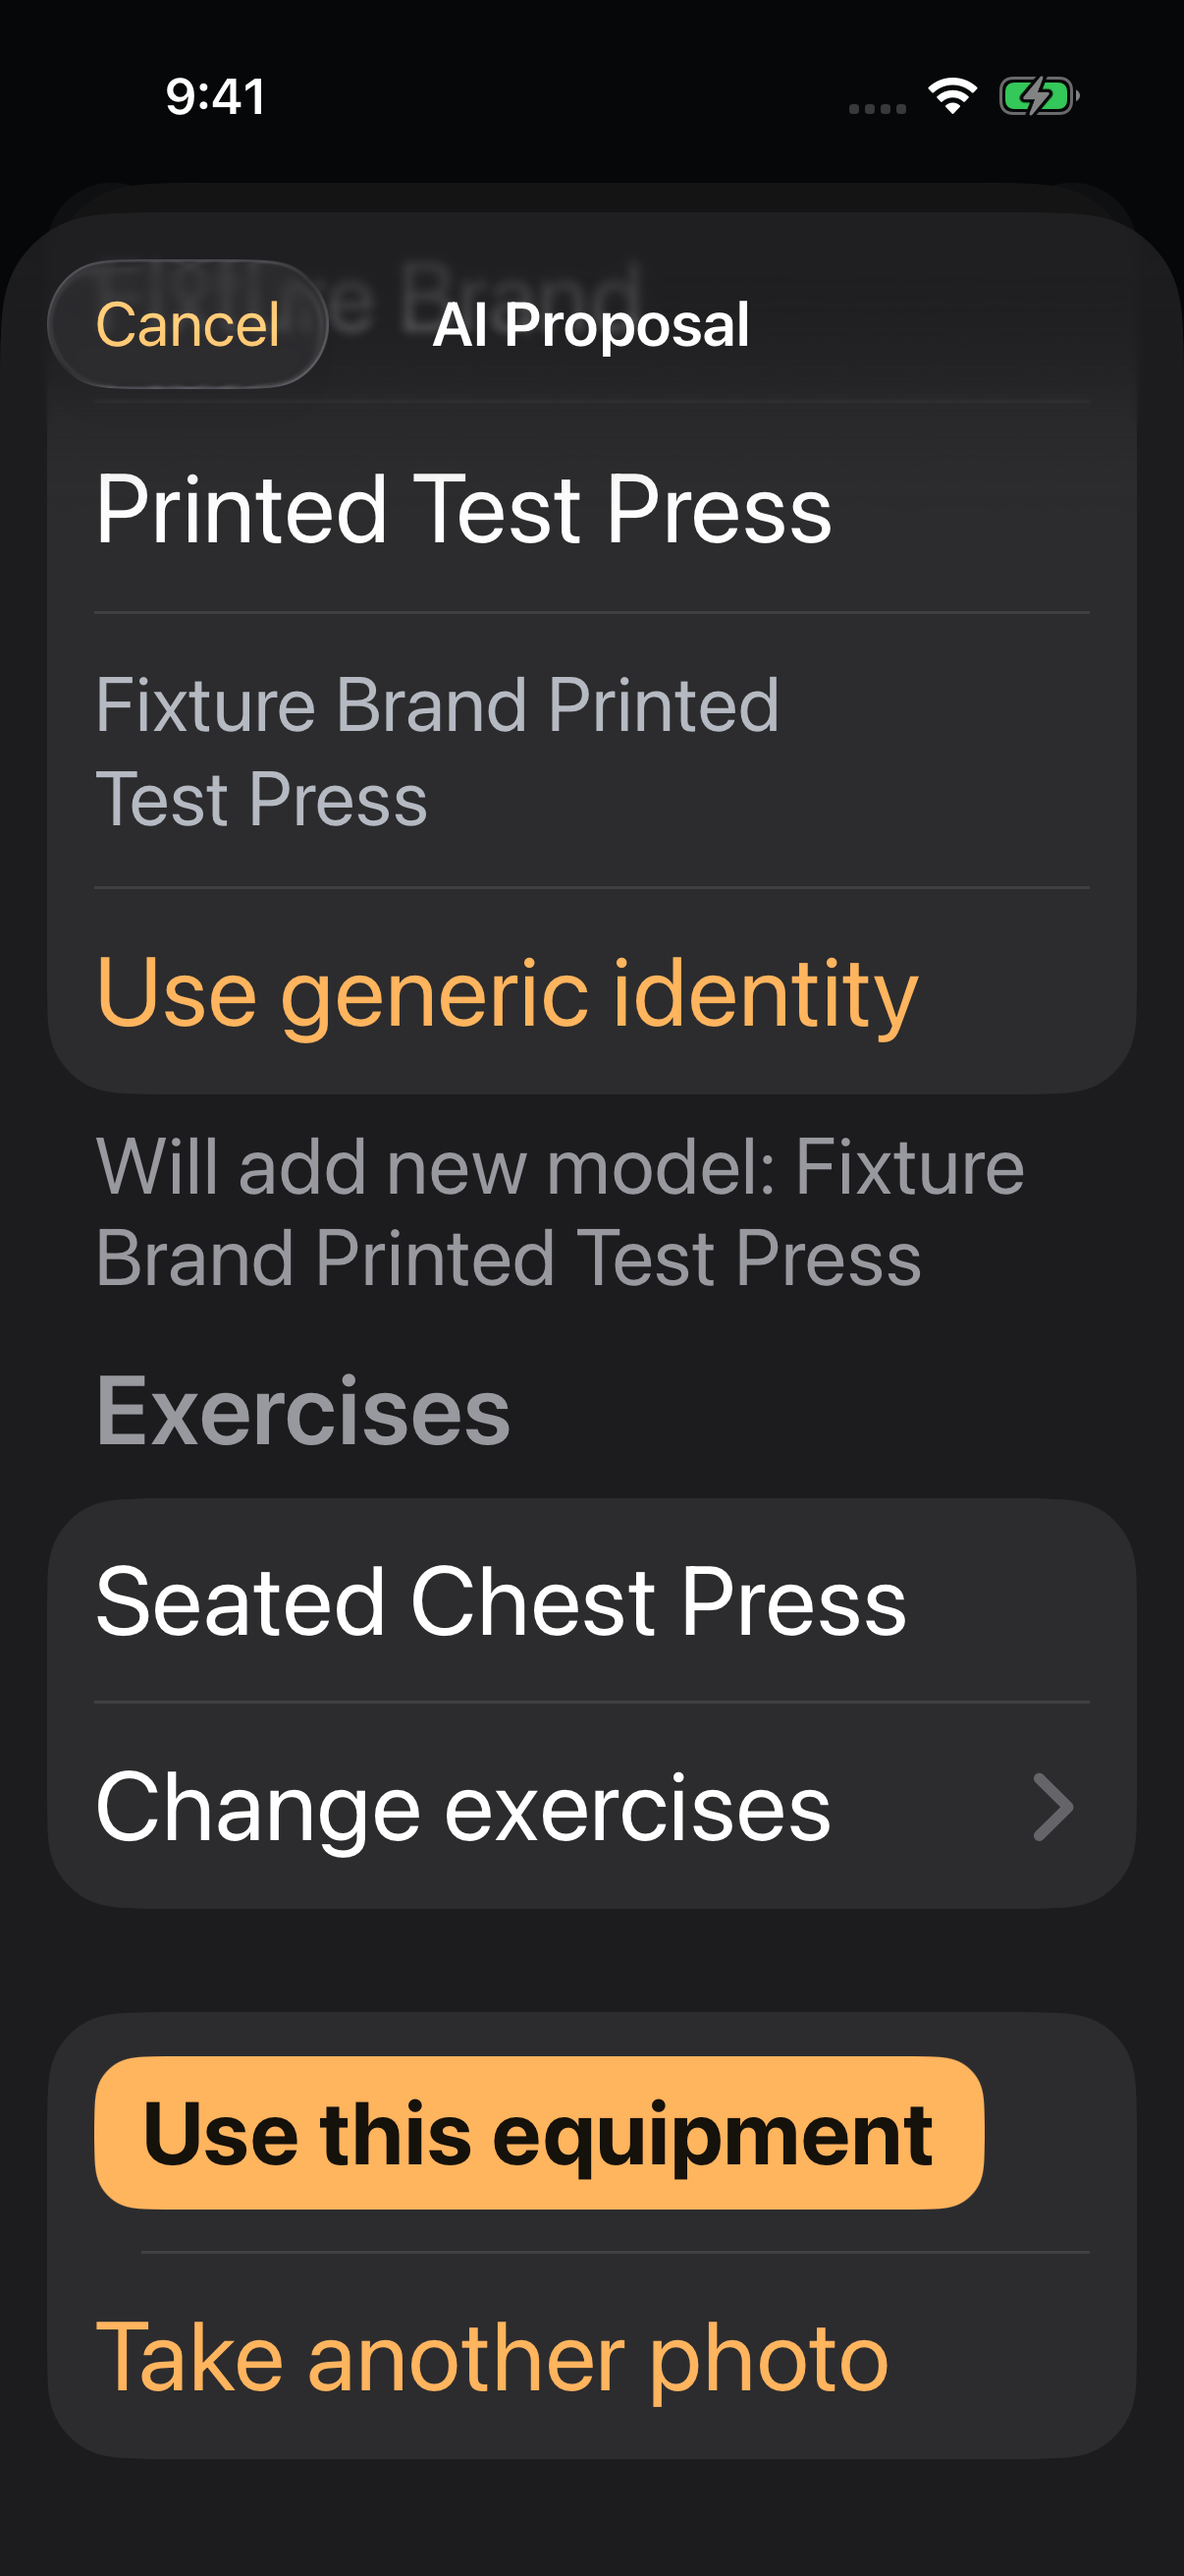
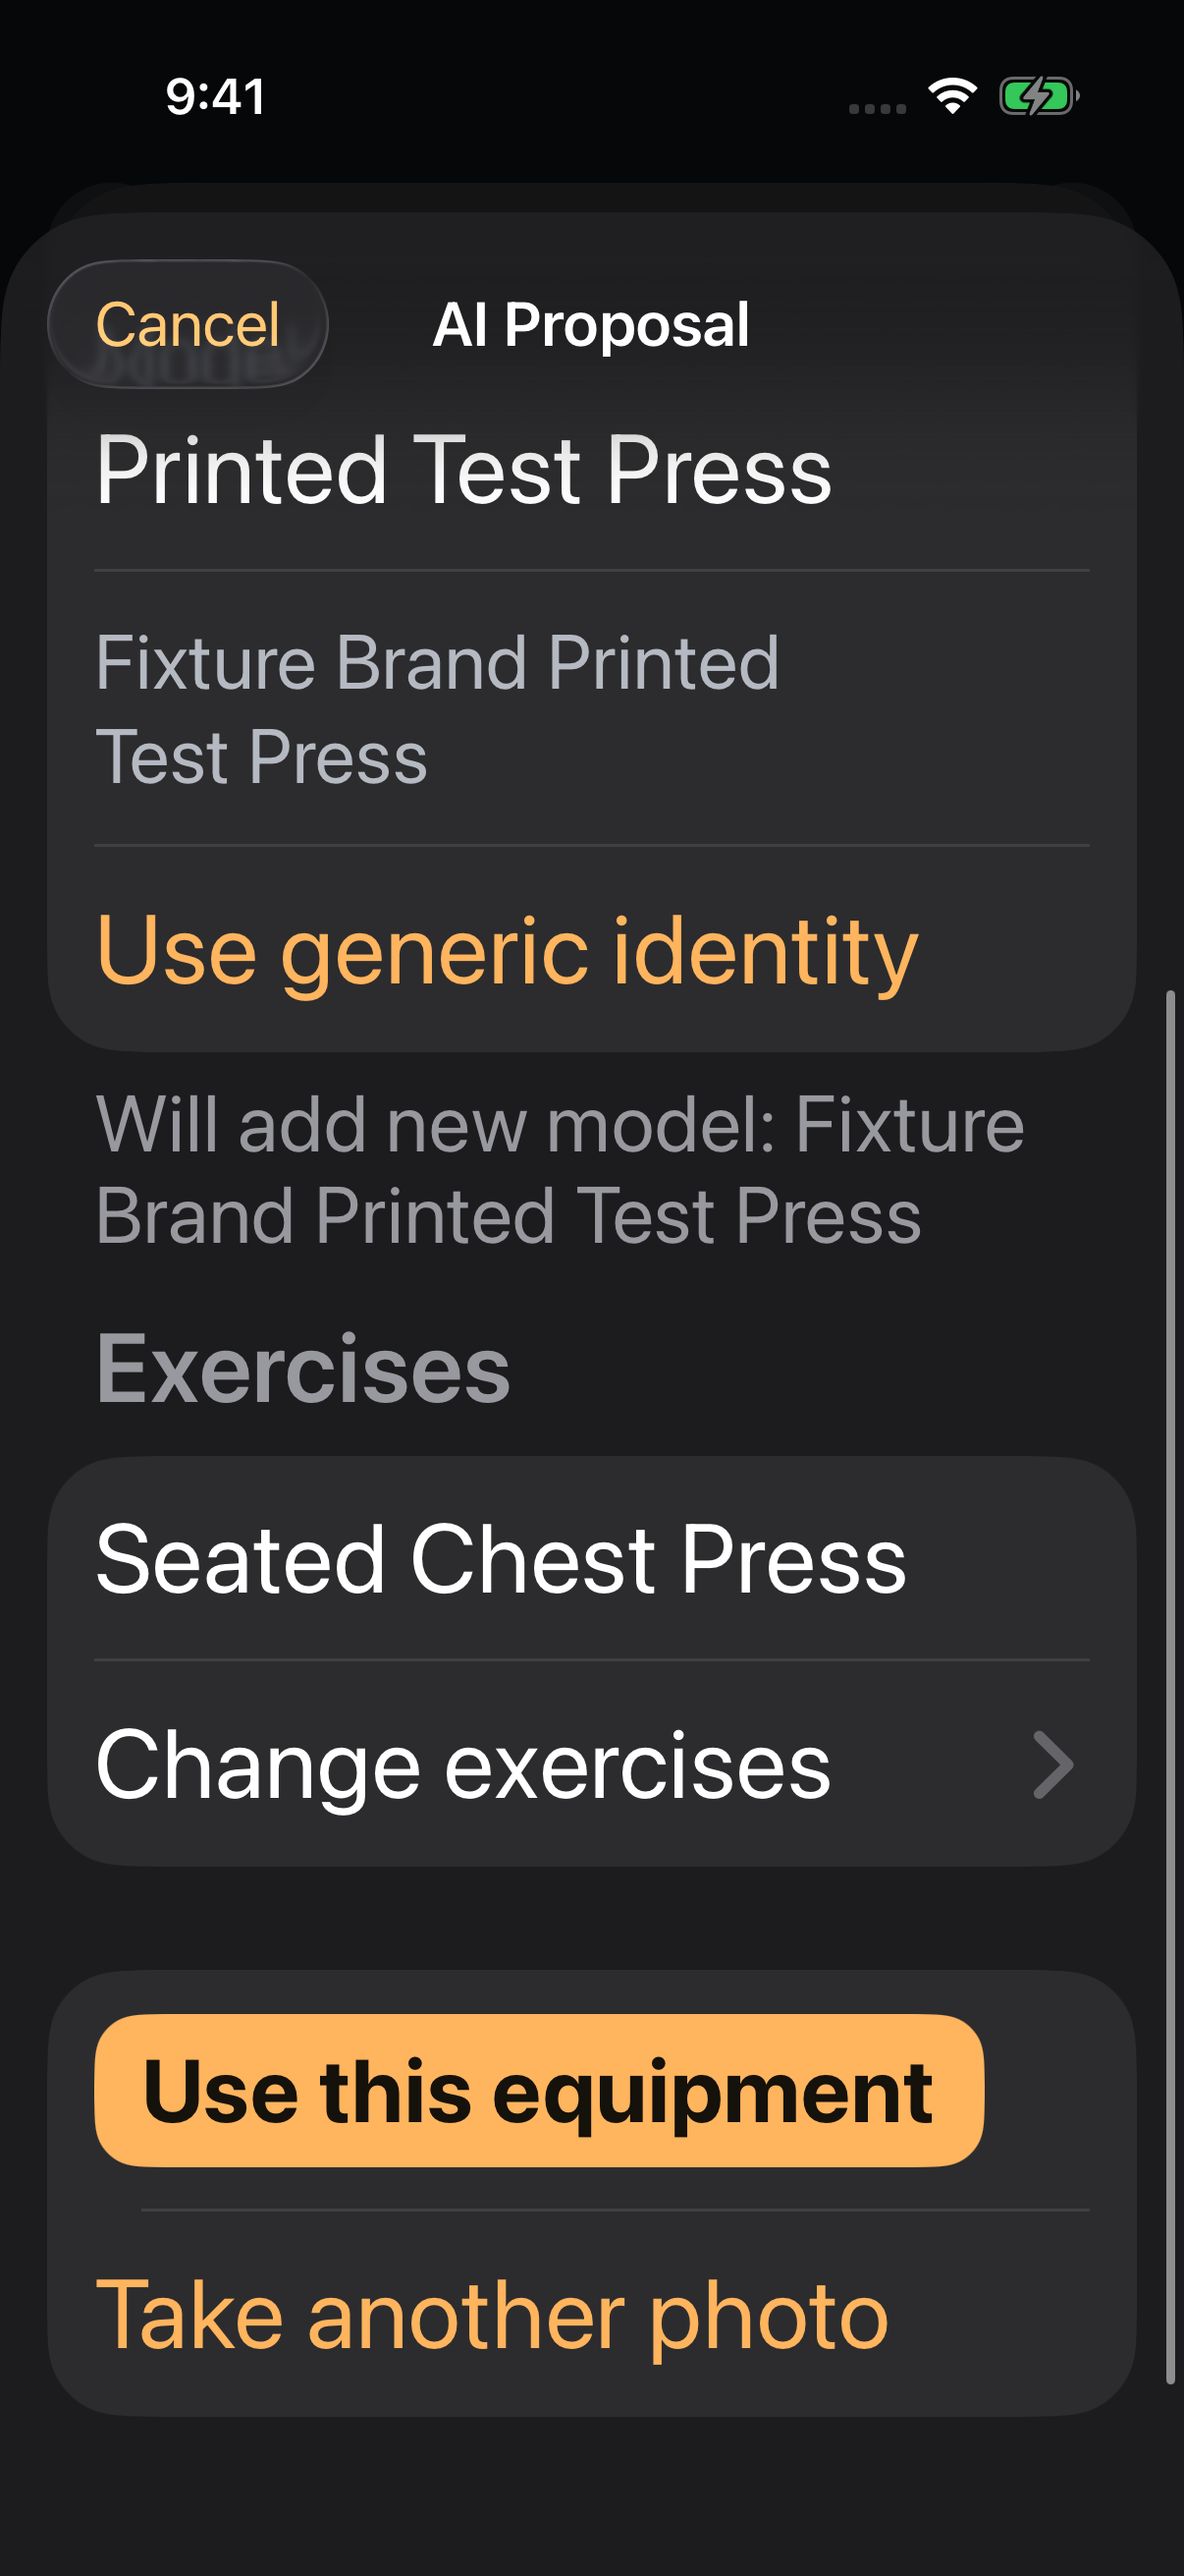
Record passing polish validation and updated labelled UI captures

diff --git a/work-record/ai-gym/gallery.html b/work-record/ai-gym/gallery.html
@@ -1,4 +1,5 @@
 <!doctype html><meta charset="utf-8"><meta name="viewport" content="width=device-width, initial-scale=1"><title>AI gym — verified UI captures</title><style>body{background:#0B0D10;color:#F6F3EC;font:16px system-ui;max-width:1100px;margin:auto;padding:24px}h1{font-size:28px}h2{font-size:20px;color:#FFB45E;margin-top:40px}.pair{display:grid;grid-template-columns:repeat(2,minmax(0,1fr));gap:24px}figure{margin:0}img{width:100%;max-width:420px;height:auto;border-radius:18px}figcaption{color:#B5B9C2;margin:10px 0}a{color:inherit}@media(max-width:600px){.pair{grid-template-columns:1fr}}</style><h1>AI equipment and weekly routines</h1><p>Real simulator captures at Default and AccessibilityL. Tap an image for full resolution. These use synthetic UI-test data; no private key or phone history is shown.</p>
+
 <section><h2>Day Cardio</h2><div class="pair">
 <figure><figcaption>Default</figcaption><a href="screenshots/ai-day-cardio-default.png"><img loading="lazy" src="screenshots/ai-day-cardio-default.png" alt="ai-day-cardio — Default"></a></figure>
 <figure><figcaption>AccessibilityL</figcaption><a href="screenshots/ai-day-cardio-axl.png"><img loading="lazy" src="screenshots/ai-day-cardio-axl.png" alt="ai-day-cardio — AccessibilityL"></a></figure>
@@ -16,11 +17,16 @@
 <figure><figcaption>AccessibilityL</figcaption><a href="screenshots/ai-identity-action-ambiguous-axl.png"><img loading="lazy" src="screenshots/ai-identity-action-ambiguous-axl.png" alt="ai-identity-action-ambiguous — AccessibilityL"></a></figure>
 </div></section>
 <section><h2>Identity Action Newmodel</h2><div class="pair">
+<figure><figcaption>Default</figcaption><a href="screenshots/ai-identity-action-newmodel-default.png"><img loading="lazy" src="screenshots/ai-identity-action-newmodel-default.png" alt="ai-identity-action-newmodel — Default"></a></figure>
 <figure><figcaption>AccessibilityL</figcaption><a href="screenshots/ai-identity-action-newmodel-axl.png"><img loading="lazy" src="screenshots/ai-identity-action-newmodel-axl.png" alt="ai-identity-action-newmodel — AccessibilityL"></a></figure>
 </div></section>
 <section><h2>Identity Action Specific</h2><div class="pair">
 <figure><figcaption>Default</figcaption><a href="screenshots/ai-identity-action-specific-default.png"><img loading="lazy" src="screenshots/ai-identity-action-specific-default.png" alt="ai-identity-action-specific — Default"></a></figure>
 <figure><figcaption>AccessibilityL</figcaption><a href="screenshots/ai-identity-action-specific-axl.png"><img loading="lazy" src="screenshots/ai-identity-action-specific-axl.png" alt="ai-identity-action-specific — AccessibilityL"></a></figure>
+</div></section>
+<section><h2>Identity Action Uncertain</h2><div class="pair">
+<figure><figcaption>Default</figcaption><a href="screenshots/ai-identity-action-uncertain-default.png"><img loading="lazy" src="screenshots/ai-identity-action-uncertain-default.png" alt="ai-identity-action-uncertain — Default"></a></figure>
+<figure><figcaption>AccessibilityL</figcaption><a href="screenshots/ai-identity-action-uncertain-axl.png"><img loading="lazy" src="screenshots/ai-identity-action-uncertain-axl.png" alt="ai-identity-action-uncertain — AccessibilityL"></a></figure>
 </div></section>
 <section><h2>Identity Ambiguous</h2><div class="pair">
 <figure><figcaption>Default</figcaption><a href="screenshots/ai-identity-ambiguous-default.png"><img loading="lazy" src="screenshots/ai-identity-ambiguous-default.png" alt="ai-identity-ambiguous — Default"></a></figure>

diff --git a/docs/STATE.md b/docs/STATE.md
@@ -10,8 +10,8 @@ Finish the final independent Claude source/evidence/UI review of the AI feature,
 branch and fast-forward/push main under T6/T8. [Verification ticket](../work-record/ai-gym/issues/05-verification-review.md).
 Claude final review cleared code/evidence/UI for private-trial merge. Three recommended small
 improvements (remembered-machine precedence, visible proposal field labels, singular exercise
-wording) are implemented; targeted polish UI checks and line-level re-review remain. The live
-process is in `results/polish-active.json` in the feature checkout. No phone installation occurred.
+wording) are implemented; targeted polish checks passed (30 domain / 13 UI, zero failed/skipped). Claude’s code addendum is
+clear; final capture/evidence acknowledgement remains. No build/test job is active; no phone install.
 
 After merge, follow [private device acceptance](../work-record/ai-gym/issues/06-device-acceptance.md):
 confirm the currently installed app opens and old workouts are intact, make a fresh backup, then
@@ -43,7 +43,7 @@ Settings; the Mac tooling key is not bundled. Profiles expire **September 24, 07
 | Simulator build | Successful, including clean build and built camera/photo permission-string inspection |
 | Full domain suite | **773/773 passed**, exit 0, zero failed/skipped; later AI/template follow-up **29/29**, edited-name/final preservation suites **23/23** each |
 | UI scope | **36 distinct cases have passing evidence**, including adjacent logging, cardio, history/template, export and offline scanner flows; initial failures and successful focused reruns retained in ticket 05 |
-| UI captures | [51 real Default/AccessibilityL captures](../work-record/ai-gym/gallery.html), same fixtures per pair, including consent, identity states, routine editing, templates and active plans |
+| UI captures | [54 real Default/AccessibilityL captures](../work-record/ai-gym/gallery.html), same fixtures per pair, including consent, identity states, routine editing, templates and active plans |
 | Independent review | Claude spec review and two code reviews committed; final review cleared code/evidence/UI at `2daaa2b`; three subsequent small recommendations await targeted re-review |
 | Live API | Terra key/model verified after user funded API credits; production-format photo and 3-/7-day routine requests completed. Seven-day request: 10.14 s. Recognition limitations remain explicit |
 | Migration | Synthetic store generated from installed-era `8c71d27`; additive migration preserves old history/templates/units and new-field defaults. Prior legacy fixtures also passed |

diff --git a/work-record/ai-gym/issues/05-verification-review.md b/work-record/ai-gym/issues/05-verification-review.md
@@ -66,3 +66,5 @@ Claude final review at `2daaa2b` / product `e35f80e` independently cleared code,
 Before merge, applying the three recommended small changes: C1 recorded last-used machine takes precedence over incomplete capability metadata; U1 visible Name/Manufacturer/Model labels in the proposal; U2 singular exercise grammar. Targeted verification and re-review of these changes are the remaining gate. Phone installation/public release/recognition accuracy remain outside clearance.
 
 Polish domain checks: `polish-units` **30/30 passed**, exit 0, including last-used memory whose capability links are incomplete. `polish-ui` targets only changed proposal states, edited-name regression and preview wording; process identity is in `results/polish-active.json`. Prior independent final clearance is [Claude final review](../claude-final-review.md); a targeted re-review of C1/U1/U2 follows this bounded polish.
+
+Final C1/U1/U2 polish validation: **30/30 domain tests passed**, **13/13 targeted UI cases passed**, zero failures/skips, exits 0. `device-polish` signed build exit 0 and app/widget signatures verified. Latest labelled proposal and singular-preview captures replace prior images in the gallery. Product code is `9b0a61a`; updated evidence/capture commit follows. No build/test job remains active. Claude code addendum is clear; its final capture/evidence acknowledgement is the last merge gate.
